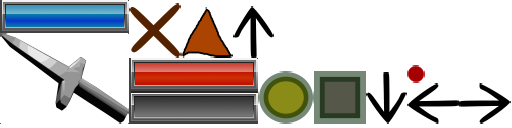
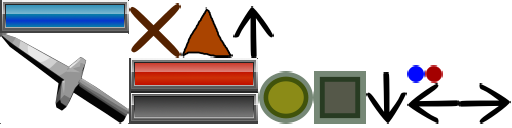
'mod

Changed region(s): [[0.7812, 0.5, 0.875, 0.6562]]

diff --git a/core/src/Sprites/Fireball.java b/core/src/Sprites/Fireball.java
@@ -24,9 +24,9 @@ public class Fireball {
 
     private MainGameScreen mainGameScreen;
 
-    private Sprite sprite;
+    protected Sprite sprite;
 
-    private Vector2 vector2PositionFireball;
+    protected Vector2 vector2PositionFireball;
 
     public boolean fireToRight;
 
@@ -39,17 +39,17 @@ public class Fireball {
 
         world = mainGameScreen.getWorld();
 
-        sprite = new Sprite(mainGameScreen.getTextureAtlasTools().findRegion("fireball"));
-
         vector2PositionFireball = new Vector2(x,y);
-
-        sprite.setBounds(x,y,12 / MegamanMainClass.PixelsPerMeters, 12 / MegamanMainClass.PixelsPerMeters);
 
         //Si la fireball proviene del personaje principal, creamos el fireball con ciertas propiedades.
         if (player.getClass() == Megaman.class) {
+            sprite = new Sprite(mainGameScreen.getTextureAtlasTools().findRegion("fireball"));
+            sprite.setBounds(x,y,12 / MegamanMainClass.PixelsPerMeters, 12 / MegamanMainClass.PixelsPerMeters);
             defineMegamanFireball();
             //Si viene del personaje enemigo, creamos otras propiedades.
         }else if(player.getClass() == Zero.class){
+            sprite = new Sprite(mainGameScreen.getTextureAtlasTools().findRegion("coldball"));
+            sprite.setBounds(x,y,12 / MegamanMainClass.PixelsPerMeters, 12 / MegamanMainClass.PixelsPerMeters);
             defineZeroFireball();
         }else {
             System.out.println(player.getClass());

diff --git a/core/src/Screen/MainGameScreen.java b/core/src/Screen/MainGameScreen.java
@@ -13,7 +13,6 @@ import com.badlogic.gdx.maps.tiled.TiledMap;
 import com.badlogic.gdx.maps.tiled.TmxMapLoader;
 import com.badlogic.gdx.maps.tiled.renderers.OrthogonalTiledMapRenderer;
 import com.badlogic.gdx.math.Vector2;
-import com.badlogic.gdx.math.Vector3;
 import com.badlogic.gdx.physics.box2d.Box2DDebugRenderer;
 import com.badlogic.gdx.physics.box2d.World;
 import com.badlogic.gdx.utils.Array;
@@ -107,8 +106,6 @@ public class MainGameScreen implements Screen {
     private ArrayList<Fireball> arrayListMegamanFireball;
 
     private ArrayList<Fireball> arrayListZeroFireball;
-
-    private Array<Controller> controllers;
 
     private ArrayList<Bunny> arrayListBunny;
 
@@ -281,6 +278,7 @@ public class MainGameScreen implements Screen {
                 if (megaman.body.getLinearVelocity().x > -3)
                     megaman.body.applyLinearImpulse(new Vector2(-0.2f, 0), megaman.body.getWorldCenter(), true);
             }
+
             //Si el jugador toca flecha abajo, el personaje slashea.
             if (Gdx.input.isKeyJustPressed(Input.Keys.DOWN)) {
                 //Solo puede slashear si no estaba saltando.
@@ -774,7 +772,6 @@ public class MainGameScreen implements Screen {
         for (int i = 0; i < arrayListZeroSize; i++) {
             arrayListZeroFireball.get(i).draw(game.batch);
         }
-
         //Finalizamos nuestro batch.
         game.batch.end();
 
